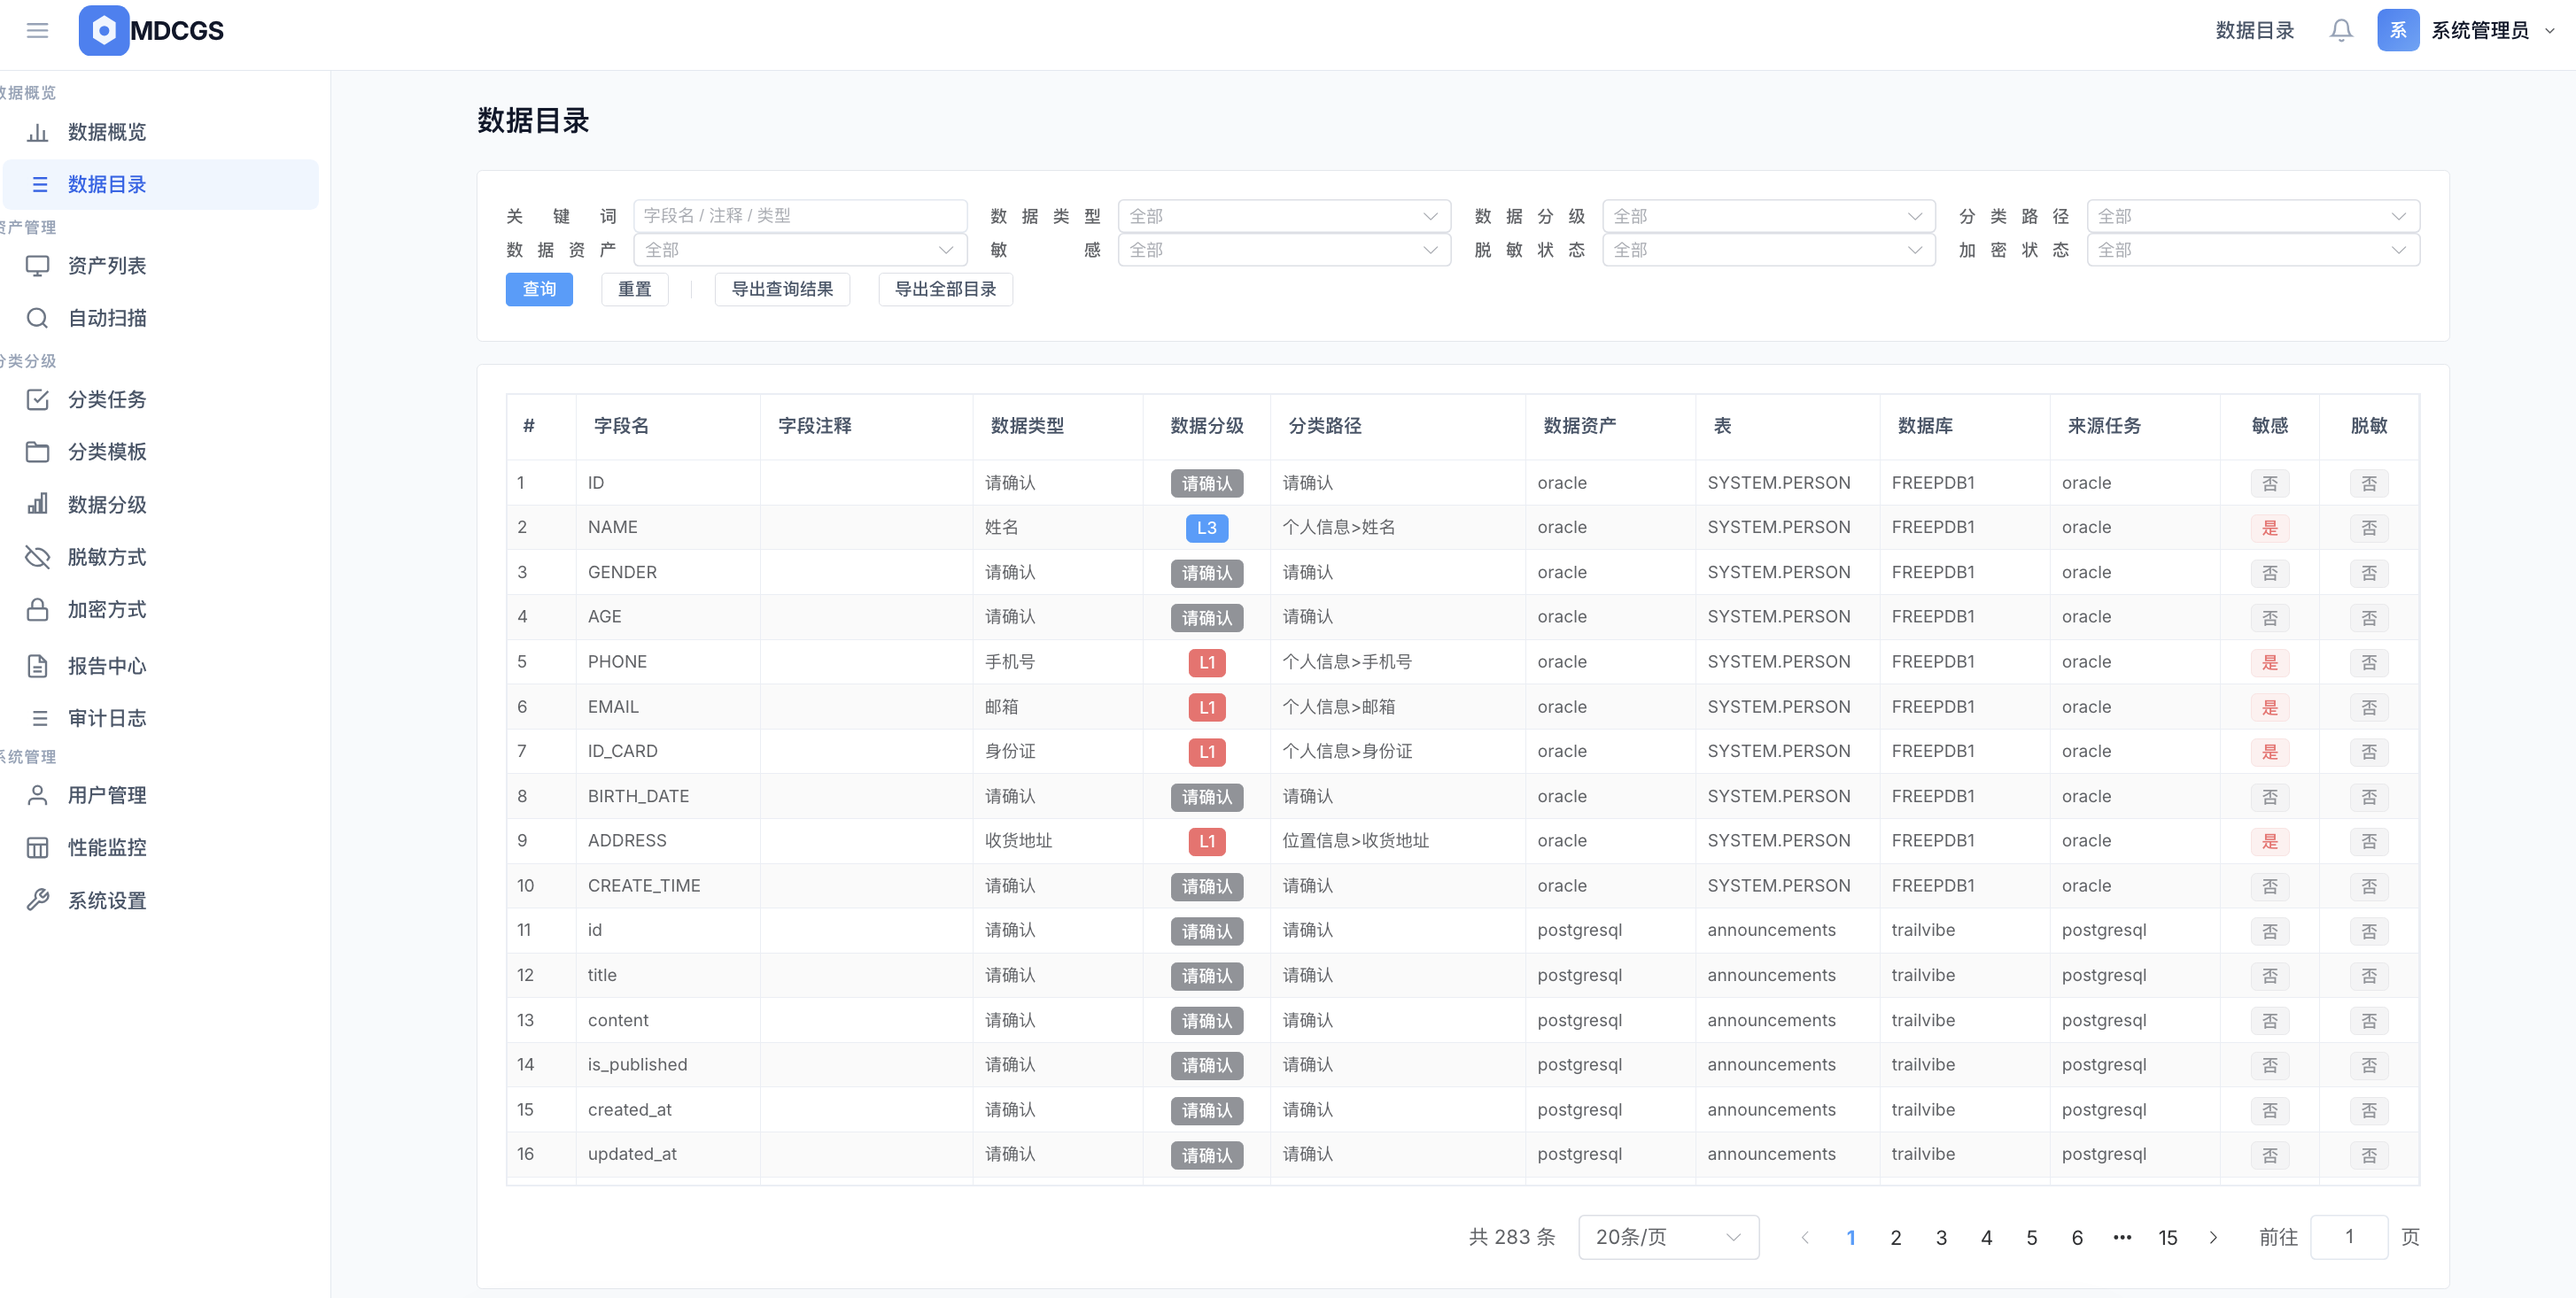
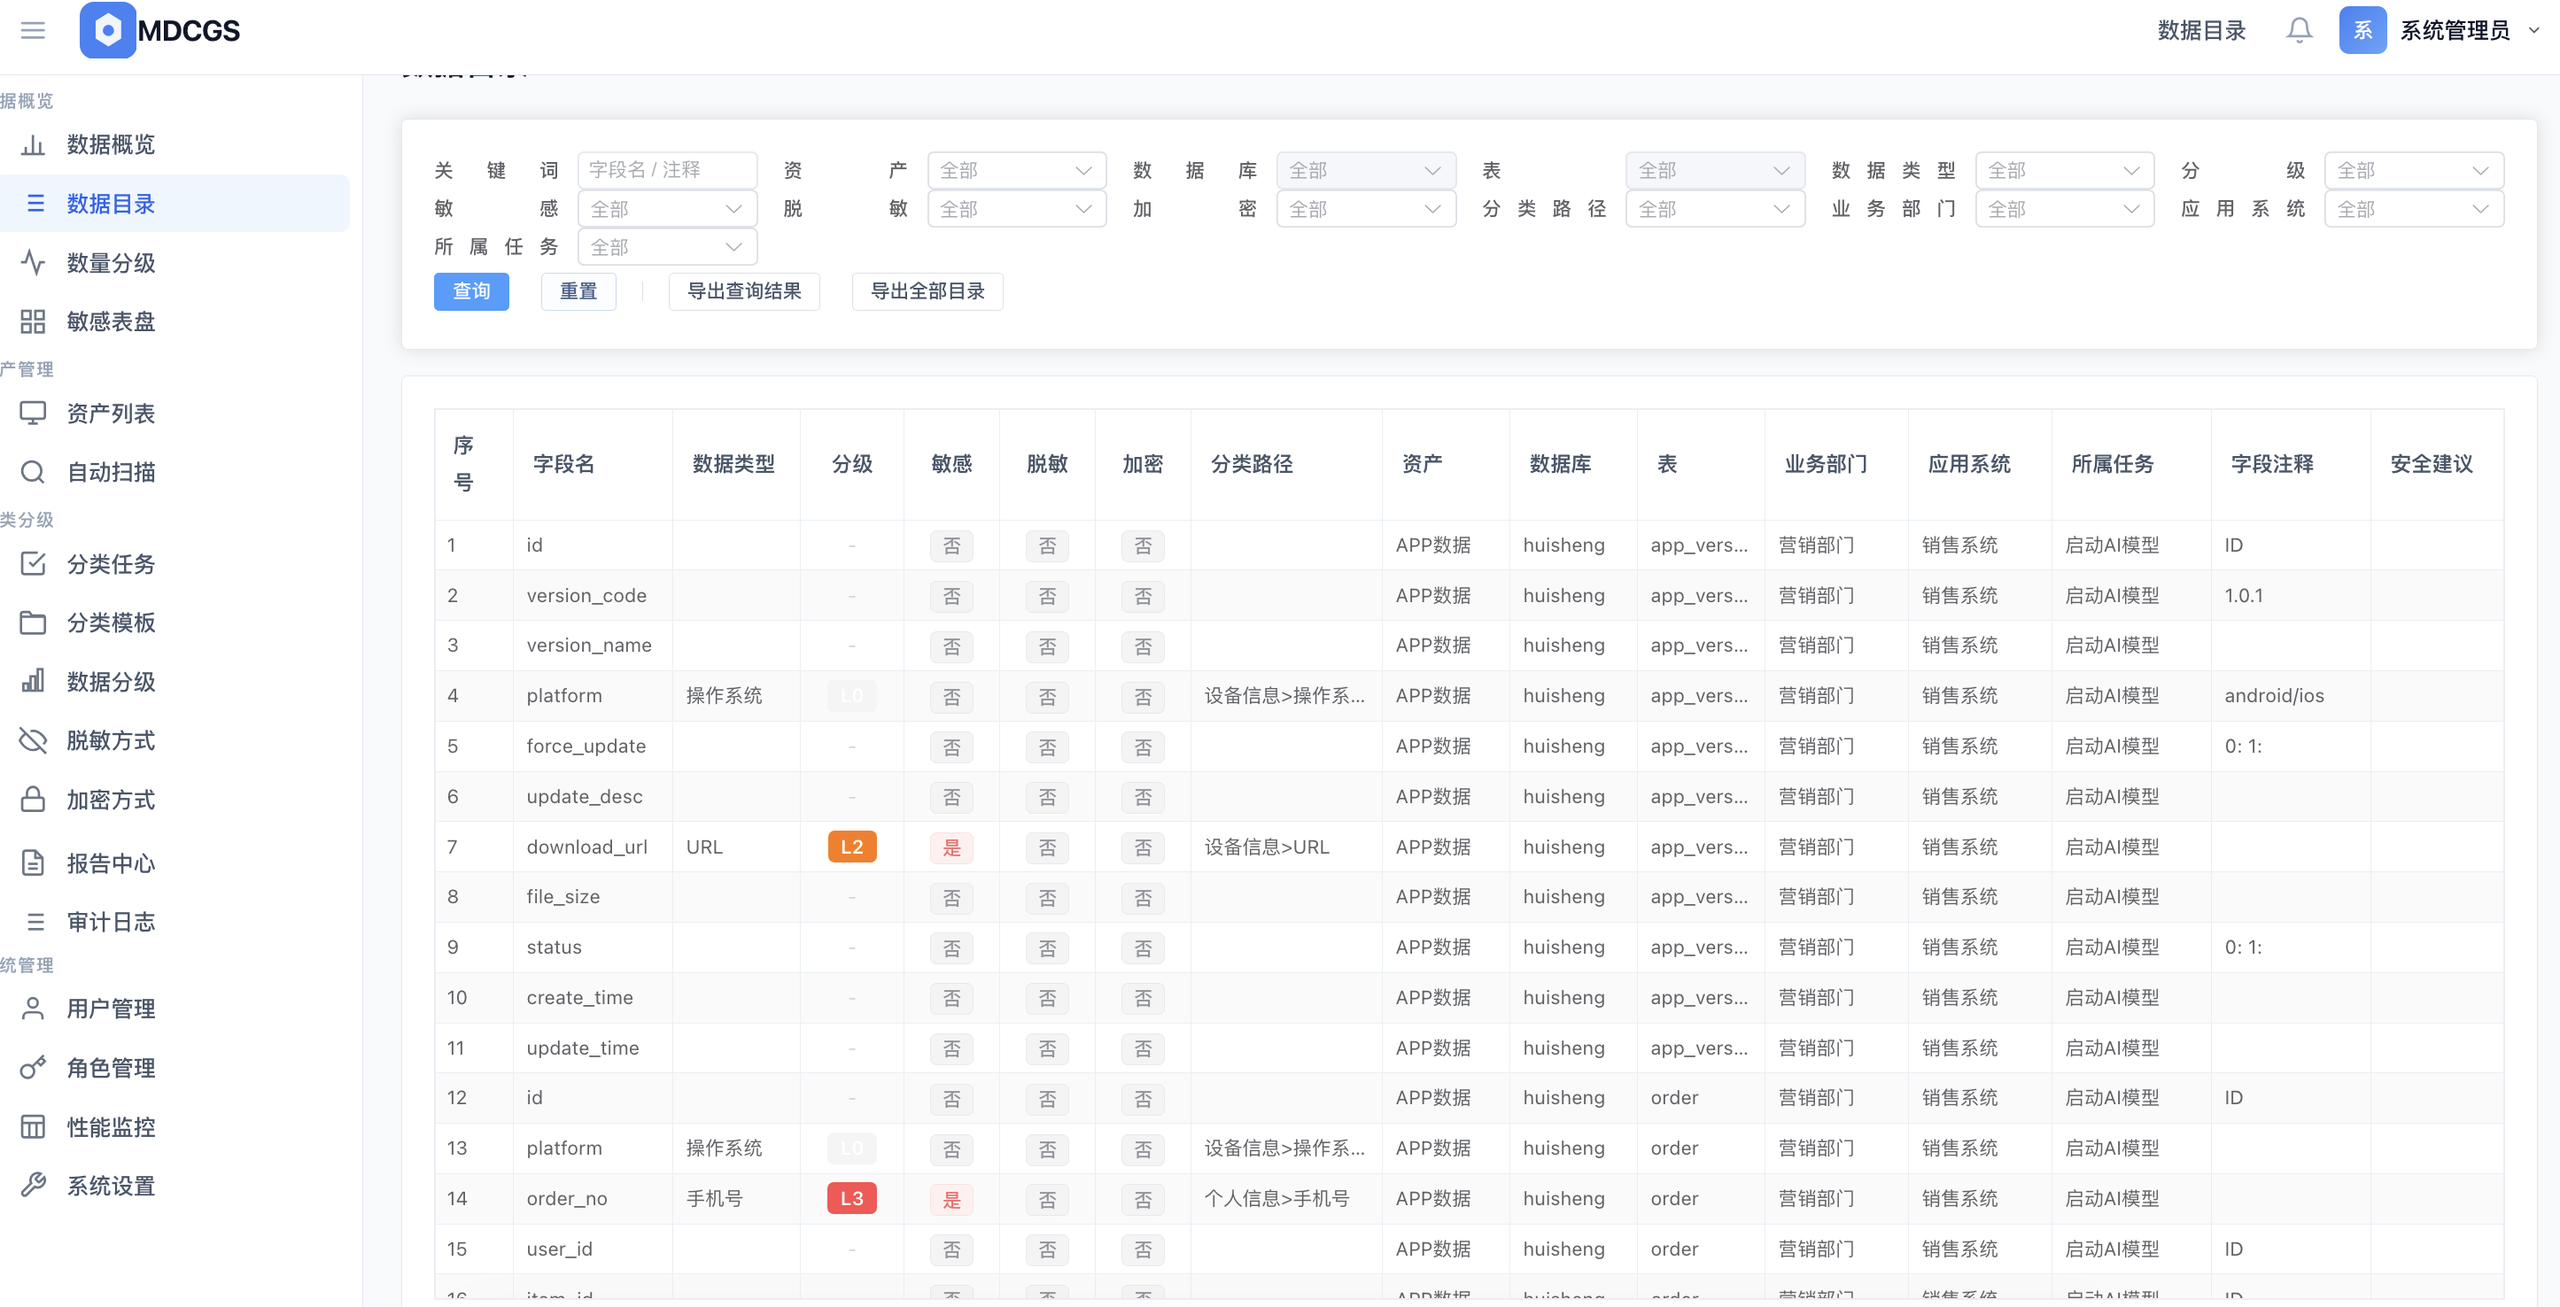
md

diff --git a/README.md b/README.md
@@ -1,6 +1,6 @@
 # MDCGS - 数据分类分级系统
 
-> 企业级数据资产分类分级管理平台，自动化识别敏感数据、精准定级、合规溯源，让数据治理从"盲抓"变为"可控"。
+> 企业级数据资产分类分级管理平台，自动化（规则+AI模型）识别敏感数据、精准定级、合规溯源，让数据治理从"盲抓"变为"可控"。
 
 > 在线演示地址：[https://mdcgs.hyinfo.cc/](https://mdcgs.hyinfo.cc/)   
 > 账号密码：admin/admin123
@@ -10,7 +10,7 @@
 
 **数据已是企业核心资产，但也是最大风险敞口。**
 
-《数据安全法》《个人信息保护法》《网络安全法》连续落地，监管明确要求企业**"对数据实行分类分级保护"**。2023 年以来，金融、医疗、政务、交通等行业的监管处罚案例中，超过 60% 涉及**数据分类不清、分级不当或敏感数据泄露**。
+《数据安全法》《个人信息保护法》《网络安全法》连续落地，**监管明确要求企业"对数据实行分类分级保护"**。2023 年以来，金融、医疗、政务、交通等行业的监管处罚案例中，超过 60% 涉及**数据分类不清、分级不当或敏感数据泄露**。
 
 企业面临的现实困境：
 
@@ -20,8 +20,6 @@
 - **权限控制无依据** — 谁能查、谁能导、谁能改，没有和数据级别挂钩的决策依据
 - **数据流转不可追溯** — 某个敏感字段被谁在什么时间访问过，审计查不到
 
-MDCGS 正是为解决这些问题而生。
-
 ---
 
 ## 💡 核心能力
@@ -29,7 +27,7 @@ MDCGS 正是为解决这些问题而生。
 | 能力 | 说明 |
 |------|------|
 | **数据资产自动发现** | 支持主流数据库（MySQL、PostgreSQL、Oracle、Sql Server等）的表结构扫描，自动发现数据资产，告别手工台账 |
-| **字段级智能分类** | 基于规则引擎 + 正则匹配，自动识别姓名、手机号、身份证、银行卡、邮箱等敏感字段 |
+| **三重维度智能分类** | 基于规则引擎 + 正则匹配 + AI模型，自动识别字段名、注释、字段内容中的姓名、手机号、身份证、银行卡、邮箱等敏感字段 |
 | **多级分类分级体系** | 内置分类+分级的可配置模板，支持按业务定制 |
 | **批量任务执行** | 支持对全库成千上万张表批量发起分类任务，异步执行、进度实时可见 |
 | **一键合规报告** | 自动生成符合监管格式的数据资产报告、可视化图表，导出 PDF/Excel |
@@ -154,7 +152,7 @@ SECRET_KEY=your-random-secret-key-here-change-me
 ENCRYPT_KEY=your-32-byte-encryption-key-here
 ```
 
-> 如果镜像pull不下来，请尝试替换以下docker源尝试，活着科学上网
+> 如果镜像pull不下来，请尝试替换以下docker源尝试，或者科学上网
 ```bash
 sudo mkdir -p /etc/docker && sudo tee /etc/docker/daemon.json <<EOF
 {
